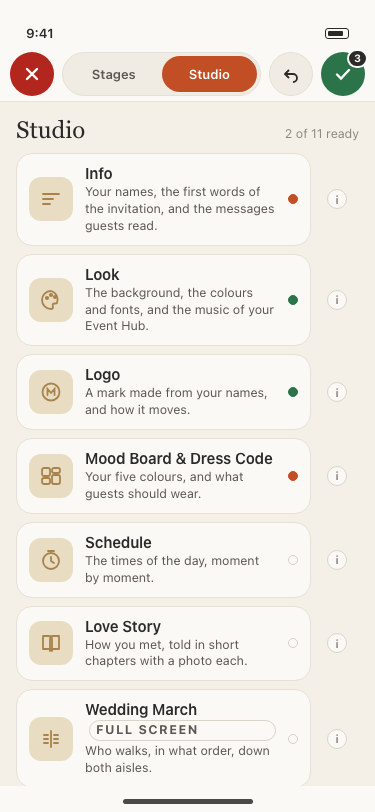
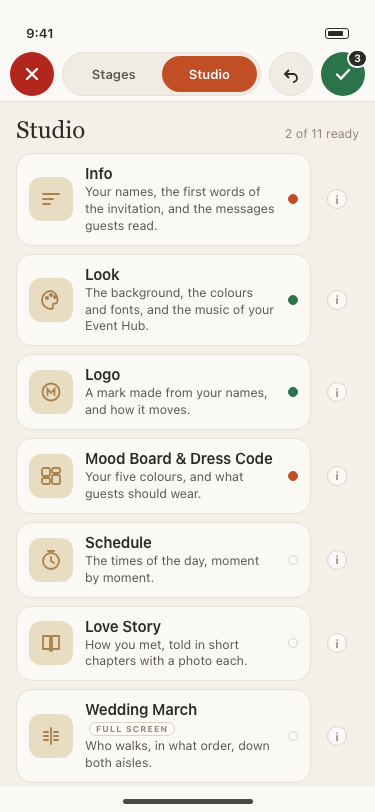
design(studio): the Full-screen tag sits inline after the topic (a stray block style)

diff --git a/prototypes/studio_home_2026-10-08_fable.html b/prototypes/studio_home_2026-10-08_fable.html
@@ -60,7 +60,7 @@ body.shot .frames{gap:0}body.shot .phone{border:0;border-radius:0;box-shadow:non
 .card .mk svg{width:24px;height:24px}
 .card .t{flex:1;min-width:0}
 .card .t b{display:block;font-size:15px;font-weight:600;line-height:1.2}
-.card .t span{display:block;font-size:12.5px;color:var(--ink2);line-height:1.35;margin-top:2px}
+.card .t > span{display:block;font-size:12.5px;color:var(--ink2);line-height:1.35;margin-top:2px}
 .card .st{flex:none;display:flex;flex-direction:column;align-items:flex-end;gap:4px}
 .dot{width:10px;height:10px;border-radius:50%;border:1.5px solid var(--line2);background:transparent}
 .dot.done{background:var(--ok);border-color:var(--ok)}
